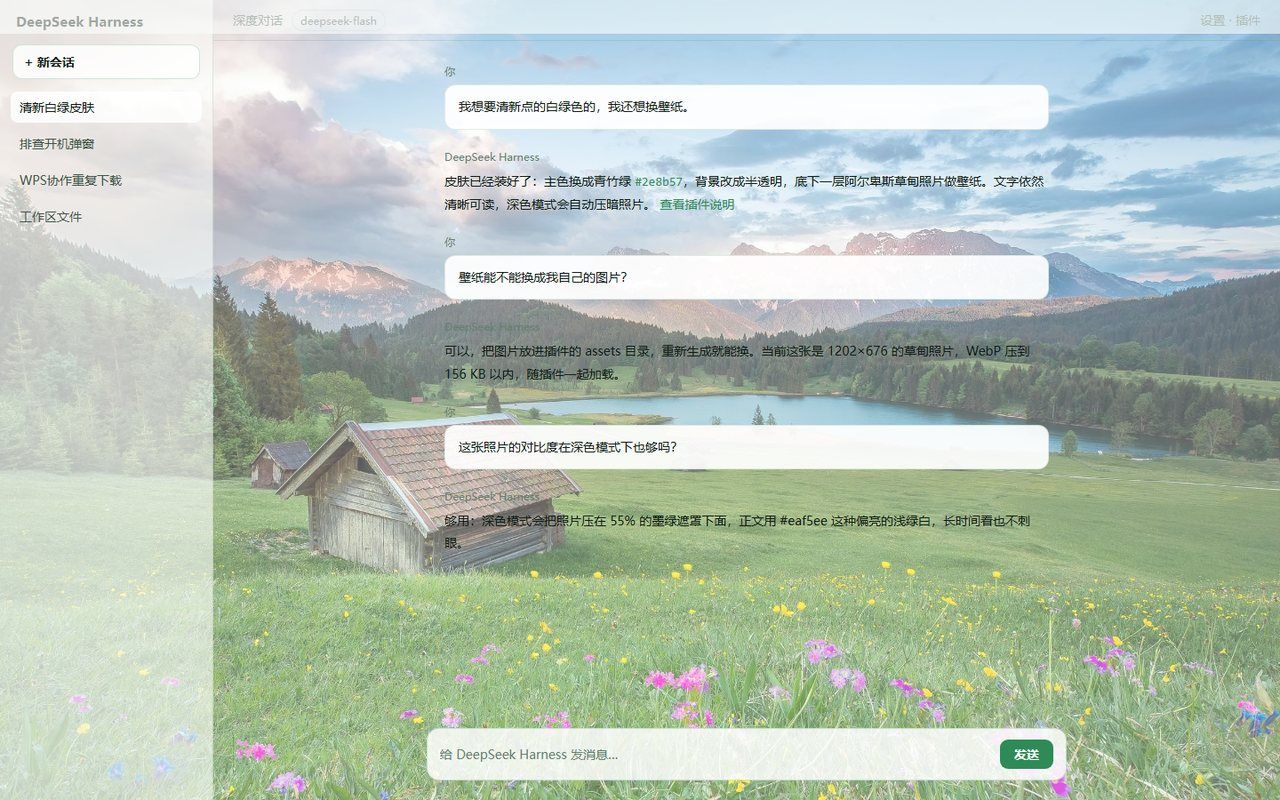
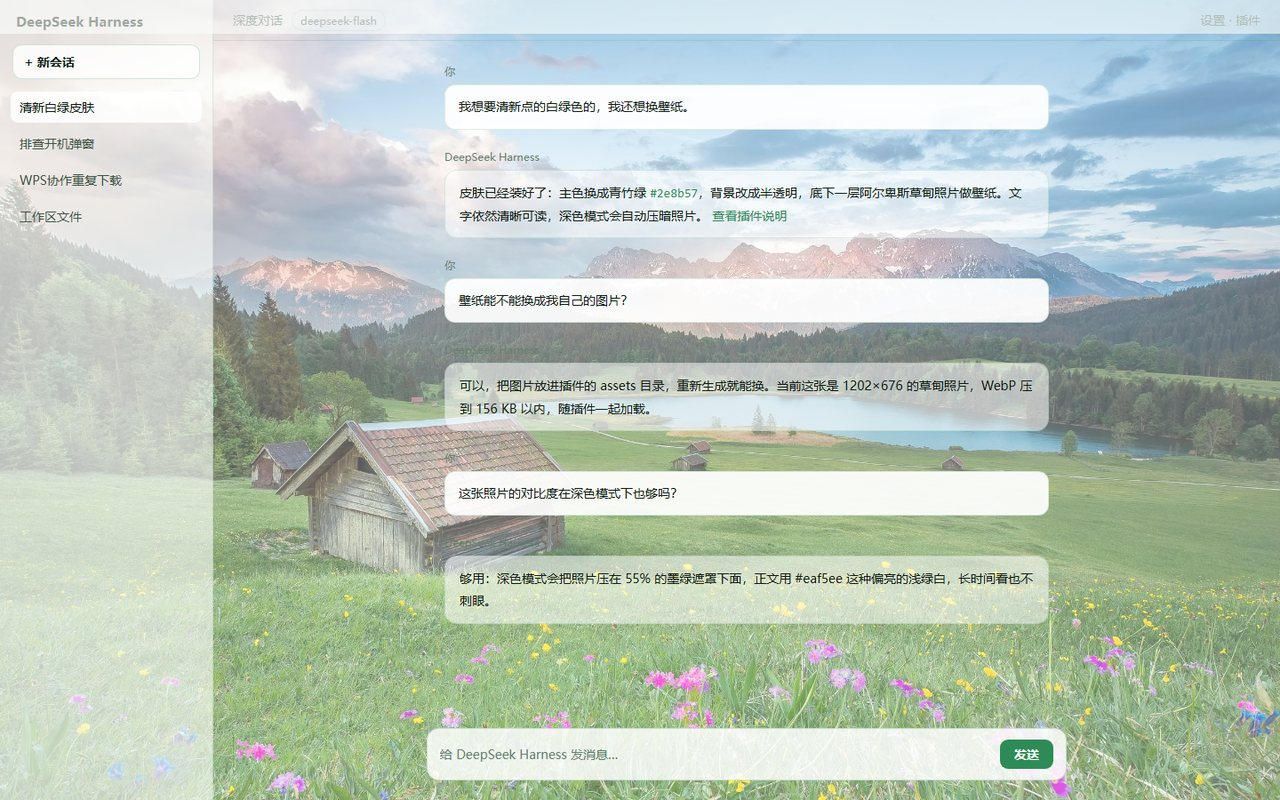
feat: give assistant replies a translucent bubble with its own opacity (1.9.0)

Changed region(s): [[0.3438, 0.1875, 0.8438, 0.7812]]

diff --git a/client.js b/client.js
@@ -126,6 +126,25 @@ body[data-fresh-skin='on'] [class*='_titleGroup'] {
   color: var(--fgw-brandtext, inherit);
   --dsw-alias-label-primary-inverted: var(--fgw-brand-inverted, #fafdfa);
 }
+/* Replies: the assistant text sits on its own surface, so it stays readable no
+   matter what the wallpaper is doing underneath. Opacity is user controlled. */
+body[data-fresh-skin='on'] [data-chat-flow-kind='assistant'] {
+  background: var(--fgw-assistant, rgba(255,255,255,0.55));
+  border: 1px solid var(--dsw-alias-border-l1, rgba(47,143,91,0.16));
+  border-radius: 14px;
+  padding: 12px 16px;
+  box-sizing: border-box;
+}
+body[data-ds-dark-theme][data-fresh-skin='on'] [data-chat-flow-kind='assistant'] {
+  background: var(--fgw-assistant-dark, var(--fgw-assistant, rgba(255,255,255,0.55)));
+}
+body[data-fresh-skin='on'] [data-chat-flow-kind='assistant'] > *:first-child {
+  margin-top: 0;
+}
+body[data-fresh-skin='on'] [data-chat-flow-kind='assistant'] > *:last-child {
+  margin-bottom: 0;
+}
+
 /* Quick-launch chips docked right above the composer. */
 .fgw-dock {
   display: flex; align-items: center; flex-wrap: wrap; gap: 8px;
@@ -508,7 +527,7 @@ function defaults() {
     logo: '',
     hideWhale: false,
     colors: { brand: '', sidebar: '', bubble: '', text: '', whale: '', wordmark: '' },
-    alpha: { sidebar: 62, bubble: 88 },
+    alpha: { sidebar: 62, bubble: 88, assistant: 55 },
     chips: { enabled: true, items: [] },
     font: '',
   }
@@ -766,6 +785,15 @@ function applyState(next) {
   if (next.sidebarFill === false) root.style.setProperty('--fgw-sidebar', 'transparent')
   else if (sidebar) root.style.setProperty('--fgw-sidebar', withAlpha(sidebar, alpha.sidebar))
   else root.style.removeProperty('--fgw-sidebar')
+
+  // Replies get a bubble of their own, so the assistant text sits on a known
+  // surface instead of directly on the photo. It shares the bubble colour and
+  // has its own opacity; dark mode gets its own variable, resolved in CSS, so
+  // no JS has to probe the current theme.
+  const replyTint = colors.bubble || sidebar || '#ffffff'
+  const replyAlpha = clamp(Number(alpha.assistant ?? 55), 0, 100)
+  root.style.setProperty('--fgw-assistant', withAlpha(replyTint, replyAlpha))
+  root.style.setProperty('--fgw-assistant-dark', withAlpha(replyTint, Math.min(100, replyAlpha + 8)))
   // "透明顶栏": let the wallpaper run to the very top, keeping the sidebar frosted.
   if (next.topbarClear) root.style.setProperty('--fgw-topbar', 'transparent')
   else root.style.removeProperty('--fgw-topbar')
@@ -1607,6 +1635,24 @@ window.__ModuleLoader__.load({
             h('span', { className: 'fgw-value' }, `${Number((current.alpha || {}).bubble ?? 88)}%`),
           ),
           h('span', { className: 'fgw-hint' }, '越低越能看见壁纸'),
+        ),
+        h(
+          'div',
+          { className: 'fgw-line' },
+          h('span', { className: 'fgw-label' }, '回复'),
+          h(
+            'span',
+            { className: 'fgw-toggle', title: '给助手的回复加一层气泡底色；拉到 0 就只有描边' },
+            h('input', {
+              type: 'range',
+              min: 0,
+              max: 100,
+              value: Number((current.alpha || {}).assistant ?? 55),
+              onChange: (event) => setAlpha({ assistant: Number(event.target.value) }),
+            }),
+            h('span', { className: 'fgw-value' }, `${Number((current.alpha || {}).assistant ?? 55)}%`),
+          ),
+          h('span', { className: 'fgw-hint' }, '回复气泡的不透明度'),
         ),
         h(
           'div',

diff --git a/docs/DETAIL.md b/docs/DETAIL.md
@@ -17,13 +17,14 @@
   - 遮罩方向由 `--fgw-scrim` / `--fgw-scrim-dark`（`255,255,255` / `6,12,9` 这类 RGB 三元组）控制，浅色系统纸抬高、深色纸（墨黑）压暗。
 - **系统纸色**：`SYSTEM_TONES` 五套——中性灰 `#f4f5f4`、冷白 `#eef3f7`、暖白 `#f7f3ec`、雾灰 `#e7ebe9`、墨黑 `#20262a`（`dark: true`）。`palette: 'system'` 时面板取 `withAlpha(tone.paper, alpha…)`，文字按 tone 明暗给 `#0f1c14` / `#f2faf5`，边框换中性色，勾「中性强调色」再把品牌色降到 `#4c5f56` / `#a9c3b6`。
 - **侧栏不铺色**：`state.sidebarFill === false` 时 `applyState` 直接把 `--fgw-sidebar` 写成 `transparent`，侧栏与顶栏条带都只透壁纸；开着时按 `colors.sidebar || paper || tone.paper` + `alpha.sidebar` 铺一层。
+- **回复气泡**：助手回复在宿主里的容器带 `data-chat-flow-kind="assistant"`，插件给它加 `background: var(--fgw-assistant)` + 1px 描边 + 14px 圆角 + 12/16px 内边距。`applyState` 写两个变量：`--fgw-assistant`（`withAlpha(colors.bubble || sidebar, alpha.assistant)`，默认 55%）和 `--fgw-assistant-dark`（同一个色、alpha +8），深色由 `body[data-ds-dark-theme]` 规则切线，不需要 JS 探测主题。容器上第一条/最后一条子元素的 `margin` 归零，避免气泡里多出空白。
 - **字体**：`--fgw-font` 写到 `body` 的 `font-family`，选项见 `FONTS`（默认 / 黑体 / 宋体 / 楷体 / 衬线英文 / 等宽）；默认值 `inherit` 保持 DSH 原样。
 - **设置项**：注册到 `settings.general.item`（id `fresh-green-wallpaper`，order 20），分九行：
   1. 壁纸：画廊缩略图（内置图 / “我的图片” / “视频”块）+ 上传图片 / 上传视频 / 恢复默认
   2. 一键预设：四张卡片（清爽白绿 / 全壁纸 / 跟随系统 / 纯纸面），每张只改自己关心的字段（`QUICK_PRESETS` 里的 `value` 会被浅合并进 state），点完再往下微调
   3. 透明度：滑块 0–100%（默认 34%）+「跟随壁纸自动」；开自动对比时滑块置灰并显示推算出的值
   4. 配色：跟随系统 / 默认绿 / 跟随壁纸 / 自定义，右侧「自动保证对比」勾选（跟随系统/跟随壁纸时可见）；选「跟随系统」时多出「系统色」一行（五套纸色）与「中性强调色」开关；下一行是主色 / **纸面** / 侧栏 / 气泡 / 文字五个取色器，除「跟随壁纸」外任何模式都能单独覆盖，每个带 **取色**（点壁纸取色）
-  5. 透光：侧栏 / 气泡不透明度（默认 62% / 88%），把用户挑的颜色变成 `rgba(h,alpha)`；下一行是「侧栏填充」（关 = `--fgw-sidebar: transparent`）与「顶栏透明」（`--fgw-topbar: transparent`）
+  5. 透光：侧栏 / 气泡不透明度（默认 62% / 88%），把用户挑的颜色变成 `rgba(h,alpha)`；下一行「回复」（`alpha.assistant`，默认 55%，驱动助手气泡）；再下一行是「侧栏填充」（关 = `--fgw-sidebar: transparent`）与「顶栏透明」（`--fgw-topbar: transparent`）
   6. 品牌：鲸鱼颜色（`--fgw-whale`，作用于新会话 canvas 鲸鱼与侧栏 `_brandMark` 的 FishLogo）+「品牌字」颜色（`--fgw-brandtext` + 翻转后的 `--fgw-brand-inverted`，作用于 `_brandName` / `_brandIdentity` / `_titleGroup`），「跟随主题」清空两者
   7. 图标：**上传图标**（PNG/SVG → canvas 缩到 96px PNG data URI，存 `state.logo`）、「隐藏大鲸鱼」（`body[data-fgw-hide-whale]` 隐藏 `canvas[data-home-whale]`）
   8. 快捷条：开关 + 条目列表（名称 / 插入文字 / 颜色 / 取色 / 删除）
@@ -36,7 +37,7 @@
 - **快捷条 dock**：注册到 `conversation.input.dock`（id `fresh-green-chips`，order 5），渲染首字母圆角图标；点击时按 `[data-composer] textarea` → `textarea` → `[contenteditable]` 顺序找输入框，用 `setRangeText` + `input` 事件把文字插进去。
 - **快捷键**：`Ctrl+Alt+1…9` 应用第 n 套已存主题，`Ctrl+Alt+0` 恢复默认（`installShortcuts` 里监听 keydown，忽略带 Shift 的组合）。
 - **持久化**：
-  - `fresh-green-skin:state`：`{ source, veil, autoVeil, palette, tone, autoContrast, sidebarFill, paper, colors, alpha, chips, logo, hideWhale, brandTint, topbarClear, neutralAccent, font }`；`source` 为 `{kind:'preset',id}` / `{kind:'image',src}` / `{kind:'video',name}`，图片是 data URI；`alpha` 是侧栏/气泡不透明度（0–100），`chips` 是 `{ enabled, items: [{ id, label, text, color }] }`；`tone` 是系统纸色 id，`autoContrast` 默认 `true`，`sidebarFill` 默认 `true`。
+  - `fresh-green-skin:state`：`{ source, veil, autoVeil, palette, tone, autoContrast, sidebarFill, paper, colors, alpha, chips, logo, hideWhale, brandTint, topbarClear, neutralAccent, font }`；`source` 为 `{kind:'preset',id}` / `{kind:'image',src}` / `{kind:'video',name}`，图片是 data URI；`alpha` 是侧栏/气泡/回复气泡不透明度（0–100），`chips` 是 `{ enabled, items: [{ id, label, text, color }] }`；`tone` 是系统纸色 id，`autoContrast` 默认 `true`，`sidebarFill` 默认 `true`。
   - `fresh-green-skin:themes`：`[{ name, value }]`，`value` 是上一条去掉视频外的一切（视频主题只记名字，播的还是上传的那段视频）。
   - 旧版键（`fresh-green-skin:wallpaper`、`fresh-green-skin:veil`）在首次读取时自动迁移。
   - 视频二进制在 IndexedDB，不占 localStorage 配额。

diff --git a/README.md b/README.md
@@ -13,6 +13,7 @@
 - **配色五种来源**：跟随系统（五套系统纸色：中性灰 / 冷白 / 暖白 / 雾灰 / 墨黑，想彻底贴近宿主原样还可以勾「中性强调色」把绿色换成中性灰）/ 默认绿 / 跟随壁纸（从画面平均色推出主色、气泡、文字）/ 自定义 / 纯纸面。**改色先定一个「纸面」锚点**：定了纸色，面板、描边、次级文字都由它推出，和「先挑角色色、再微调」的思路一致；需要时再单独改主色、侧栏、气泡、文字，每个都能「取色」——点壁纸任意一点取那里的颜色。发送按钮、链接、滑块等强调色都跟着主色走。
 - **任何壁纸都看得清**：勾上「自动保证对比」后，遮罩浓度按照片（或视频首帧）的亮度反推——照片亮就多压一点、暗就少压一点，文字色再按"照片 + 遮罩"的实际底色选深字或浅字，所以换成纯白雪山、夜景或深色视频都不用自己试。想手动接管就取消勾选，滑块交回给你。
 - **透光**：侧栏、气泡各有独立的不透明度滑块，选了自己喜欢的颜色也不会把壁纸整块糊掉；默认 62% / 88%。侧栏还能整套关掉（「侧栏填充」不勾 = 完全不铺色，壁纸直接透上来），顶栏默认与侧栏共用同一层磨砂，勾「顶栏透明」就让照片一直铺到最上面。
+- **回复气泡**：助手的回复会像你的消息一样落在一个圆角气泡里（同色系、带描边），不再直接压在照片上；**回复** 一行的滑块控制这层气泡的不透明度，默认 55%，拉到 0 就只剩描边。
 - **品牌色**：新会话页的大鲸鱼、侧栏 `deepseek HARNESS` 字样各有一个取色器，挑了就生效（不用再勾开关）；「跟随主题」一次还原两者。`HARNESS` 徽标是同一块 SVG 里的反转色字母，插件会自动按你选的字色翻成深或浅，徽标不会糊掉。
 - **快捷条**：在输入框上方放一排首字母图标（颜色自选或从壁纸取色），点一下就把预设文字插进输入框；「插件 → 设置 → 通用 → 快捷条」里增删。
 - **字体**：默认 / 黑体 / 宋体 / 楷体 / 衬线英文 / 等宽，只改本浏览器。
@@ -55,6 +56,7 @@ https://github.com/Kiki-trouvaille/dsh-fresh-green-skin
 - **调透明度**：同一行的滑块，0% 看整张照片、100% 只剩配色；勾「跟随壁纸自动」交给插件判断。
 - **改配色**：配色一行里选「跟随系统 / 默认绿 / 跟随壁纸 / 自定义」；下面那行色块对应主色、**纸面**、侧栏、气泡、文字——**纸面**是锚点，定了它面板、描边、次级文字自动跟着走；每个色块旁的 **取色** 让你直接在壁纸上点一下取色。
 - **不让颜色糊住壁纸**：**透光** 一行里调侧栏、气泡的不透明度（越低越透），不想让侧栏铺任何颜色就取消「侧栏填充」。换了深色背景或夜景照片也不用自己试浓度——「自动保证对比」会跟着画面亮度定遮罩、并按实际底色挑深字或浅字。
+- **回复气泡**：**回复** 一行拖滑块改助手气泡的不透明度；0% 时只剩 1px 描边，文字直接坐在壁纸上。
 - **品牌色**：**品牌** 一行里，左边色块改侧栏与大鲸鱼的鲸鱼图形，右边「品牌字」改 `deepseek HARNESS` 字样；`HARNESS` 徽标里的字母会自动翻成与字色相反的深浅，点「跟随主题」还原两者。
 - **换图标**：**图标** 一行 **上传图标**（PNG/SVG，自动缩到 96px），侧栏与新会话的标识一起换成你的；勾「隐藏大鲸鱼」则大鲸鱼也不再显示。
 - **快捷条**：**快捷条** 一行勾上「在输入框上方显示」，点 **添加**，填名称和点图标时要插入的文字；颜色可以直接选，也可以 **取色** 从壁纸里点。保存的图标会出现在新会话输入框上方，点一下插入文字。
